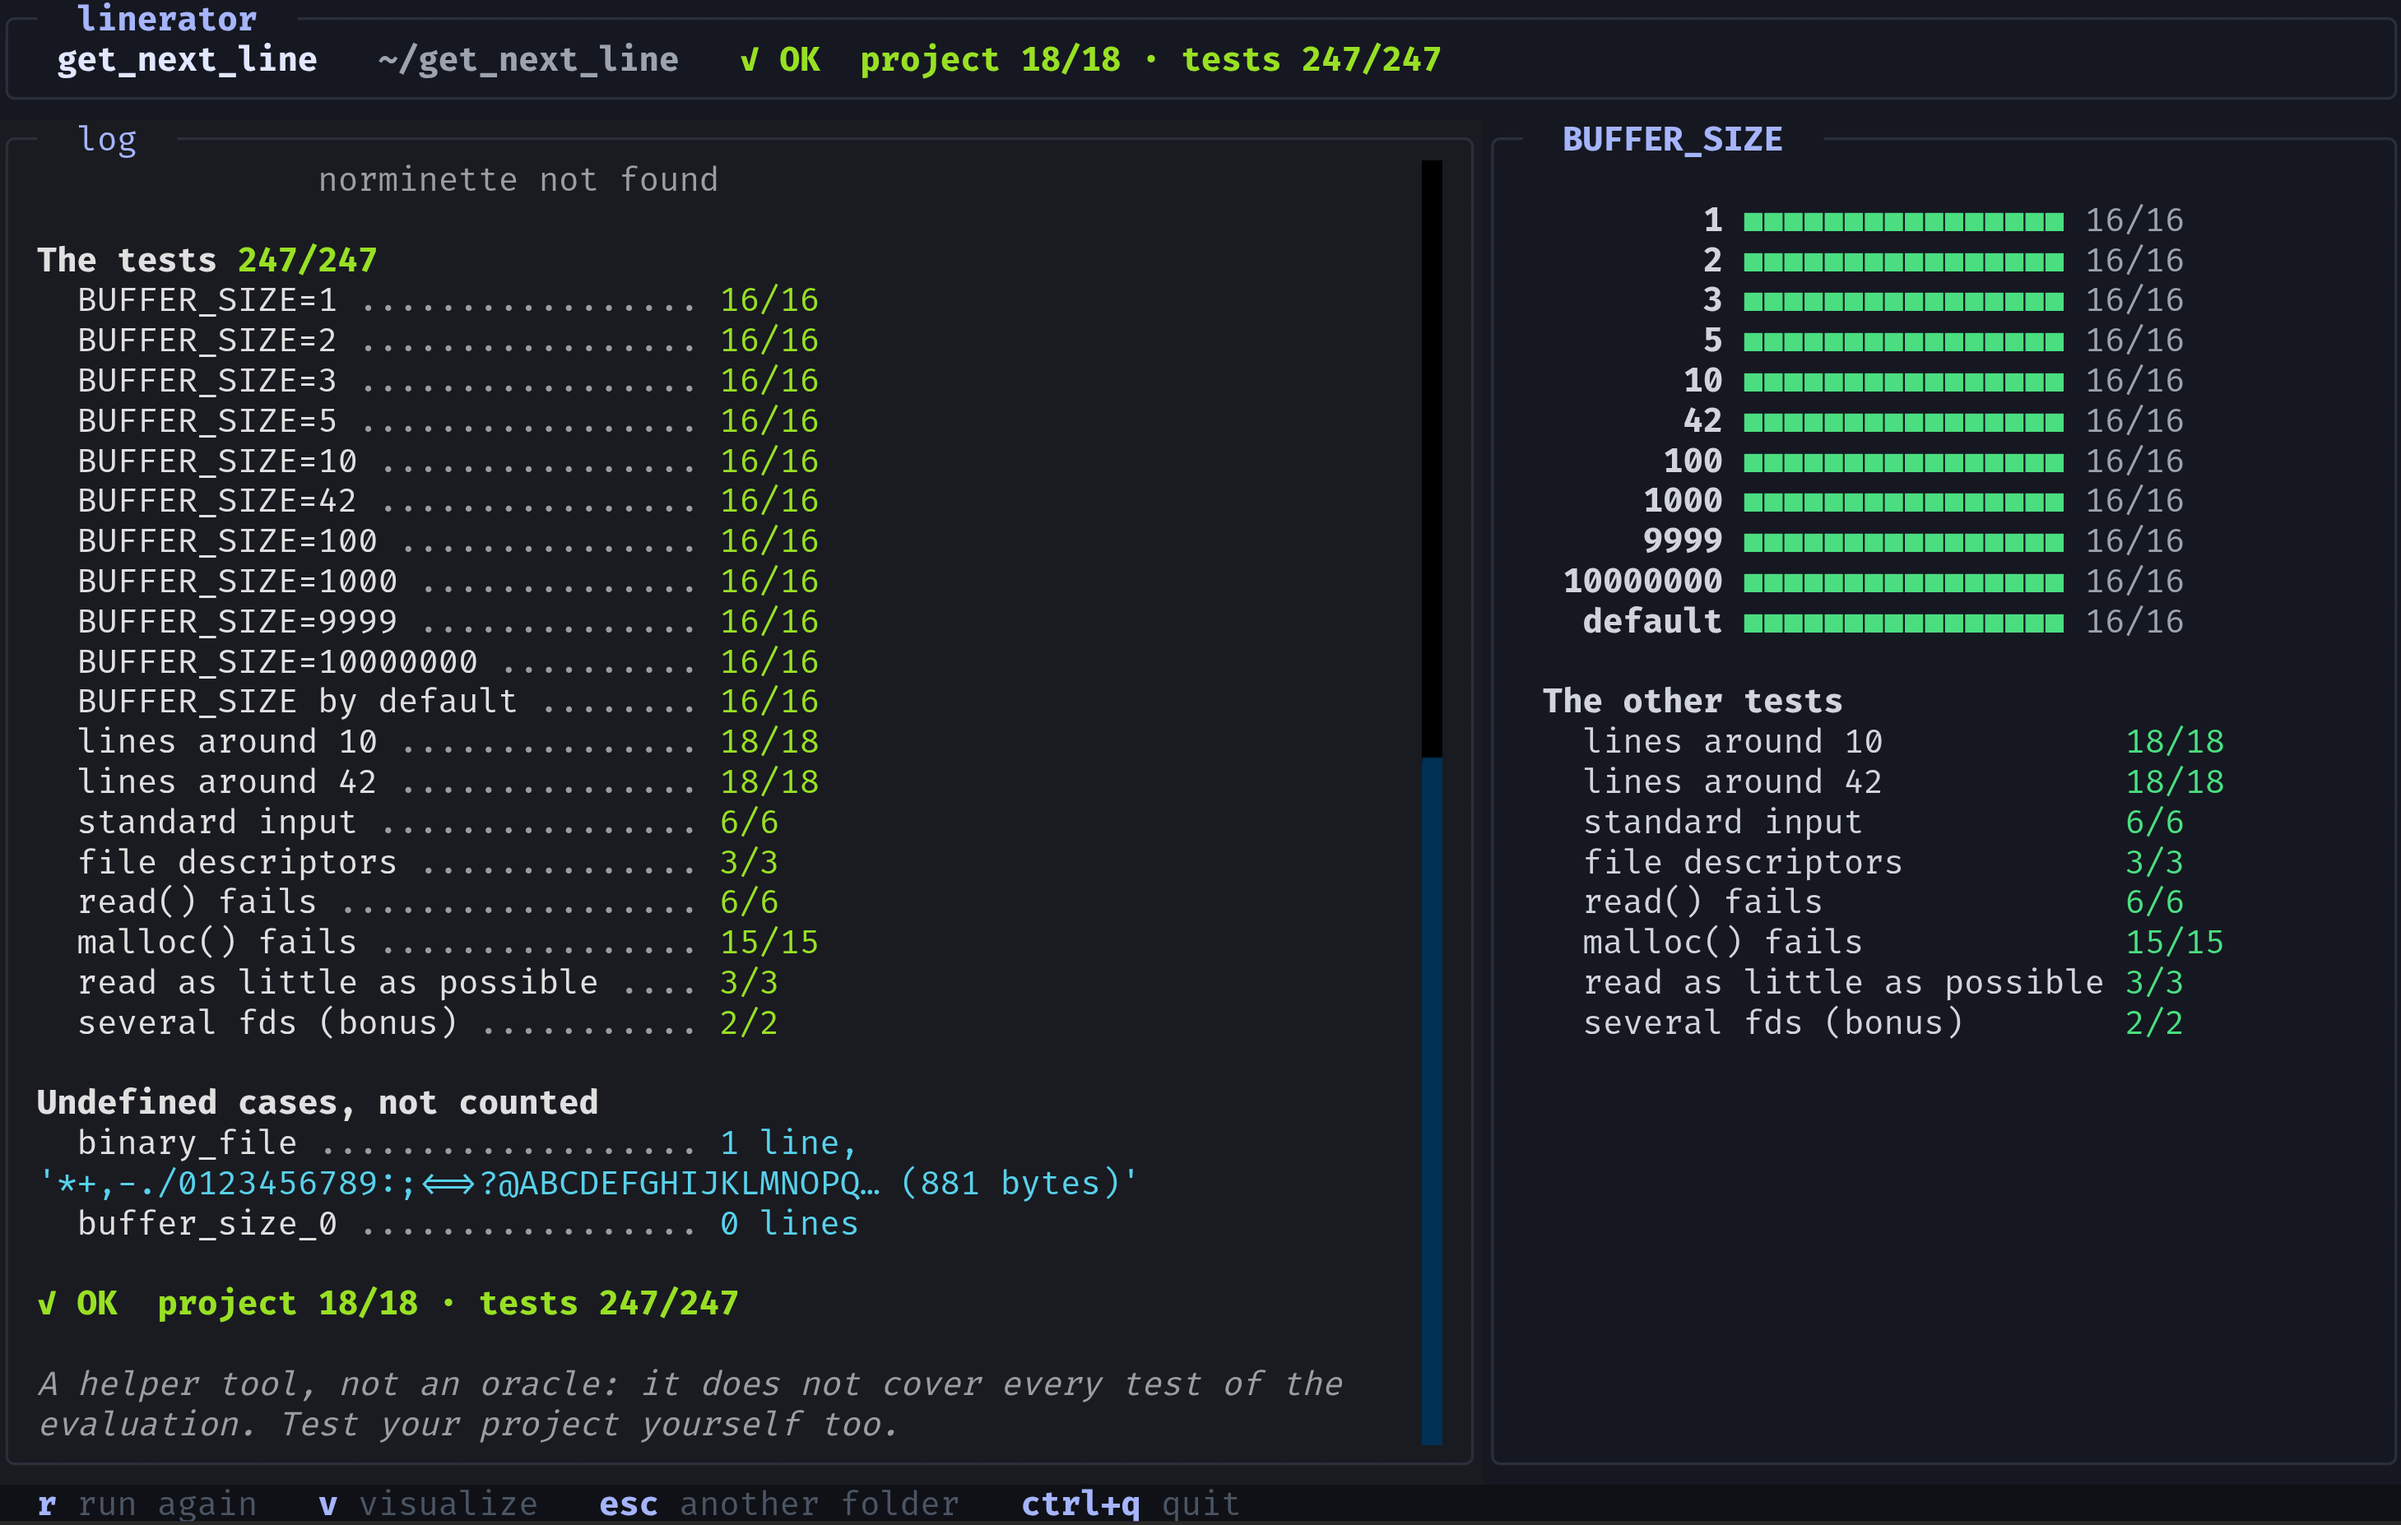
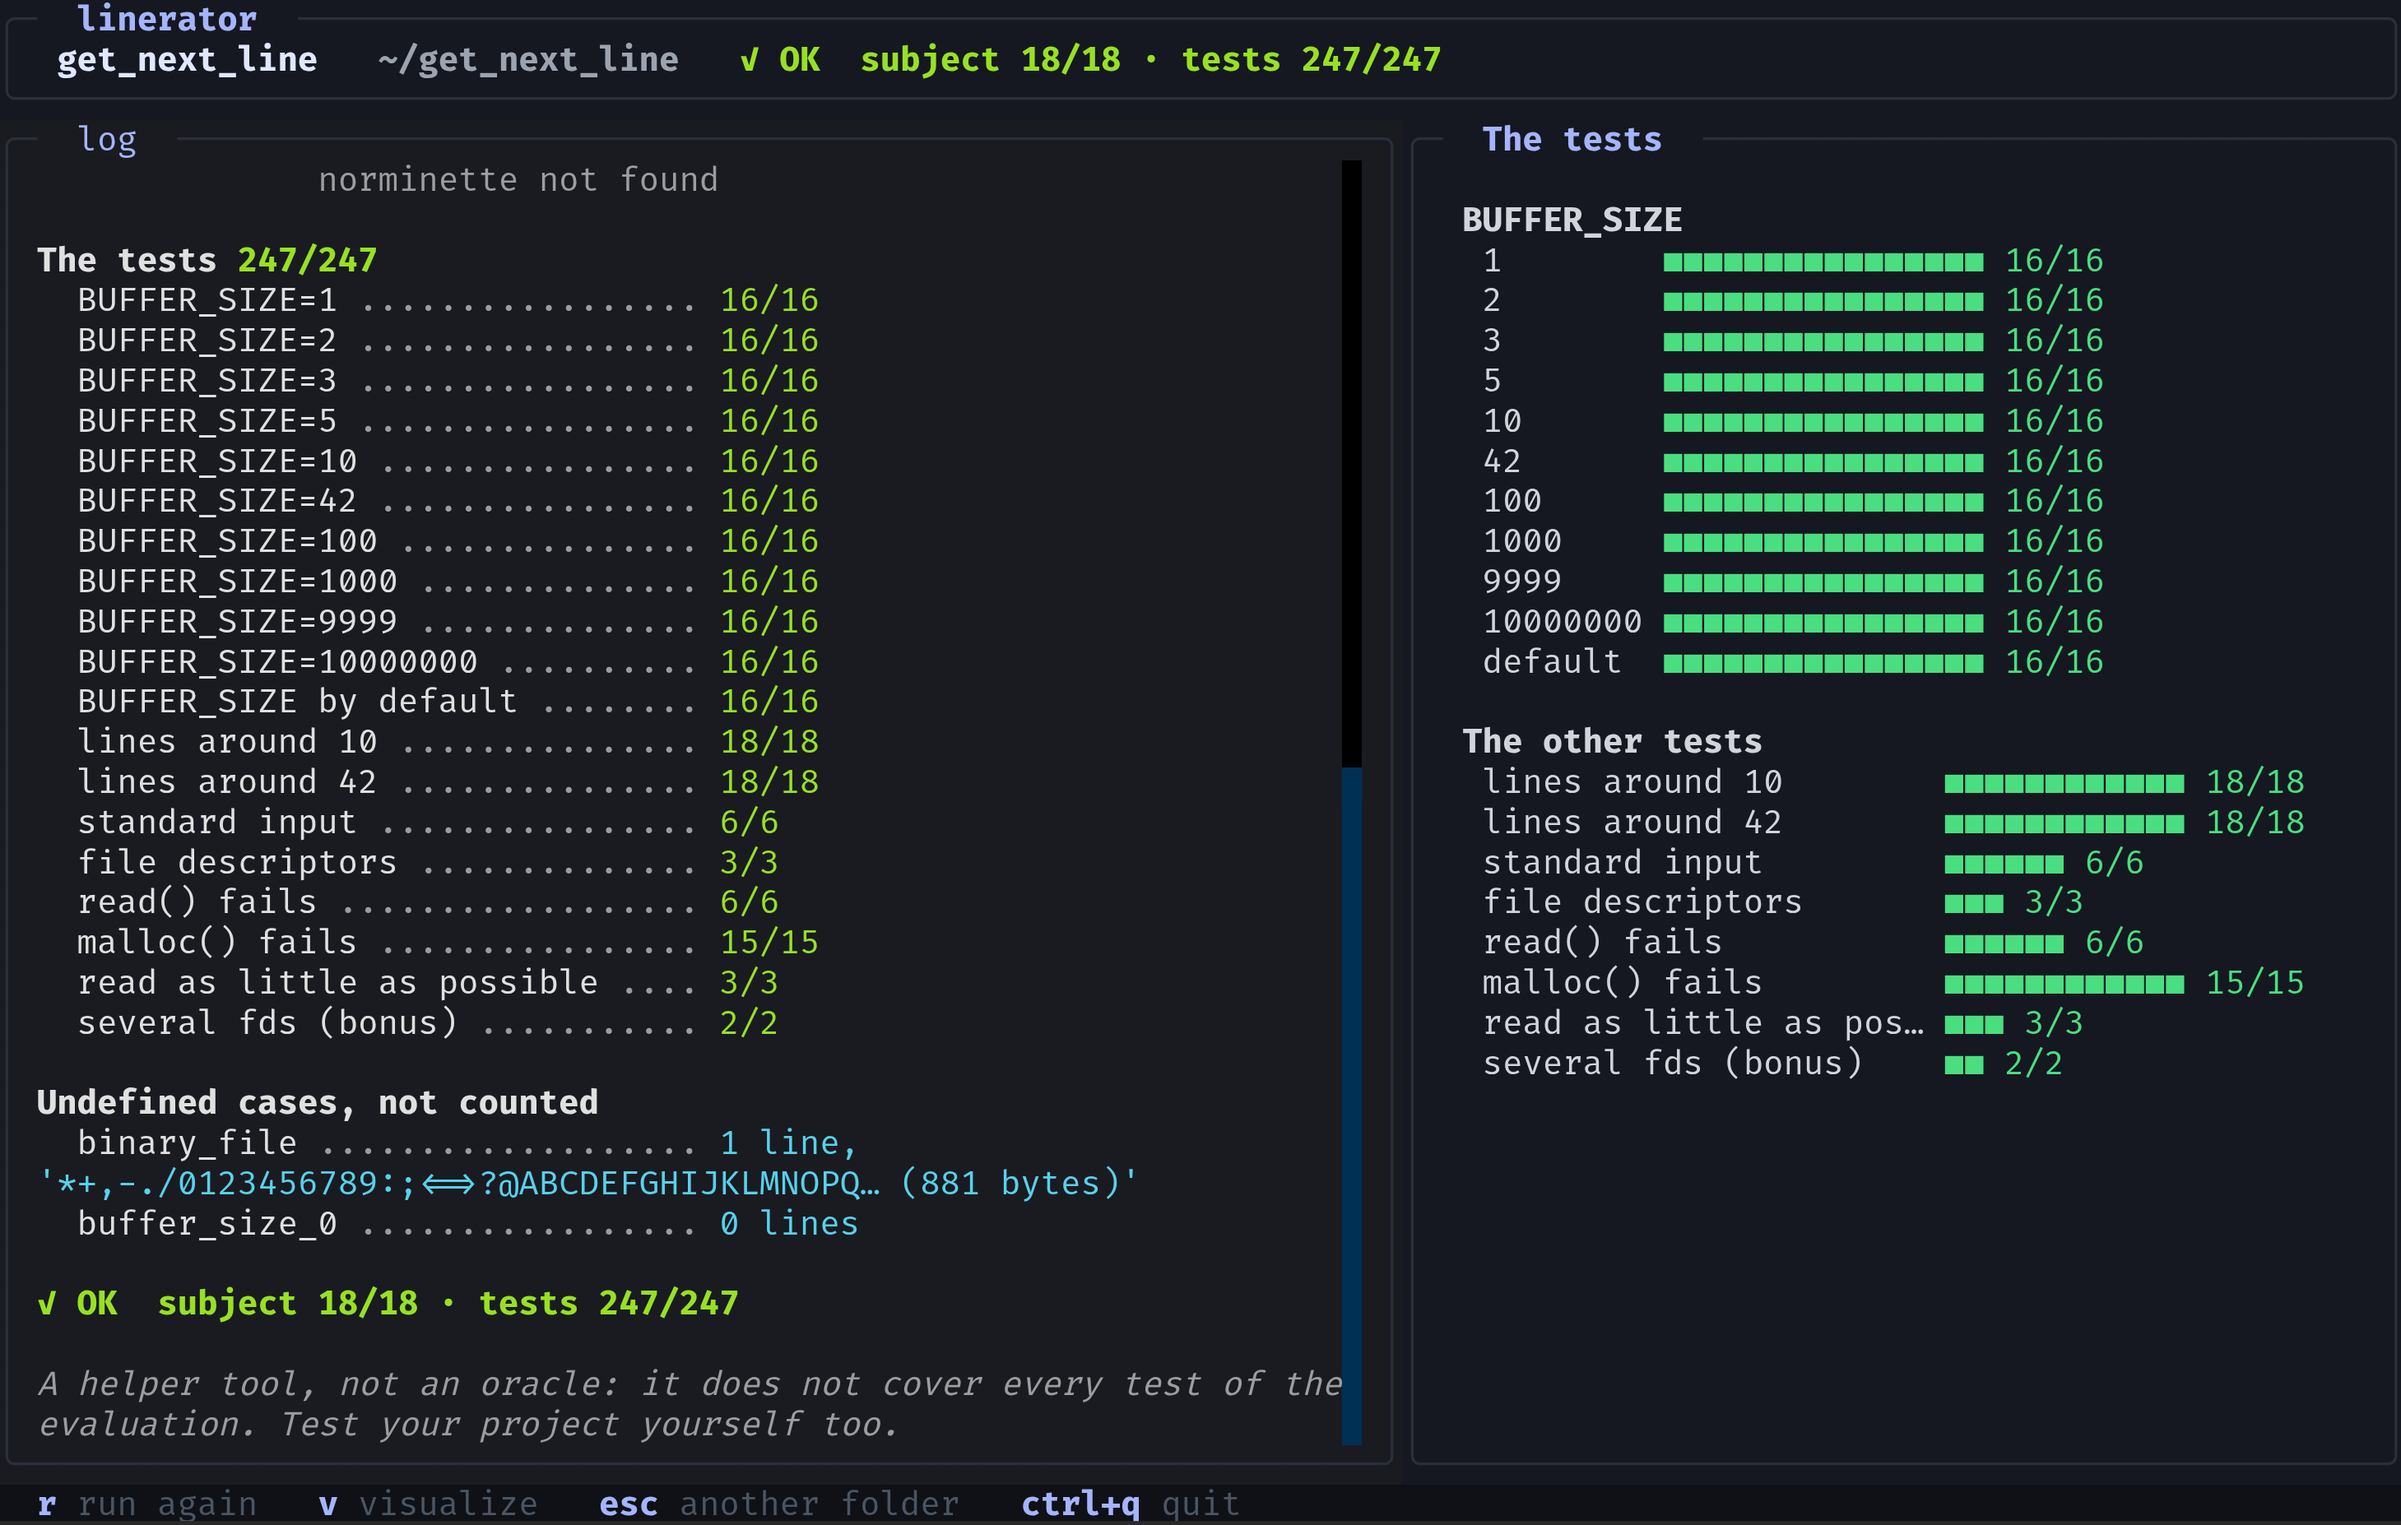
docs: the suites in the contract for 42pal; 1.1.0

Changed region(s): [[0.5613, 0.0615, 0.9668, 0.9531], [0.343, 0.0307, 0.3742, 0.0615], [0.0624, 0.8301, 0.0936, 0.8608]]

diff --git a/liner/__init__.py b/liner/__init__.py
@@ -5,4 +5,4 @@ never prints: it builds the test program with the files of the student,
 runs it, and says what it found. liner/cli/ shows it.
 """
 
-__version__ = "1.0.1"
+__version__ = "1.1.0"

diff --git a/README.md b/README.md
@@ -44,8 +44,8 @@ completes.
   <img src="docs/images/run.png" alt="A run: the tests by BUFFER_SIZE and by step, and a cell a test for each BUFFER_SIZE" width="760">
 </p>
 
-During the run, the checks and the failures show as they come. On the side, each `BUFFER_SIZE` fills up
-with a cell a test, green or red. Then the whole report. `r` runs again, `v` opens the visualizer, Esc
+During the run, the checks and the failures show as they come. On the side, each `BUFFER_SIZE`, then
+each other step, fills up with a cell a test, green or red. Then the whole report. `r` runs again, `v` opens the visualizer, Esc
 chooses another folder.
 
 Your project is never touched: Linerator copies it (without the `.o` and `.a` files) and tests the copy.
@@ -119,8 +119,11 @@ The exit code is `0` when everything passes, `1` when something fails, `2` for a
 `--json` and `--stream` follow the contract of [libfterator](https://github.com/Blaeste/Libfterator), so
 that 42pal can run Linerator from its Testers menu. The JSON has `"format": 1`, the checks of the project in
 `conformity`, each run in `tests`, the `BUFFER_SIZE` that fail in `notes`, and `error` when the tests could
-not run. `--stream` gives `start`, `step` (`subject`, then `tests`), `check`, `plan` (it may come again,
-smaller), `phase`, `test` and `error`.
+not run. `suites` gives each suite its name in the language chosen and its row in the panel
+(`{"key": "buffer_1", "name": "BUFFER_SIZE=1", "group": "BUFFER_SIZE", "label": "1", "tests": 16}`), so that
+42pal shows the same names and the same panel. `--stream` gives `start`, `step` (`subject`, then `tests`),
+`check`, `plan` (the number of tests and the suites; it may come again, smaller), `phase`, `test` and
+`error`.
 
 ## Credits
 
